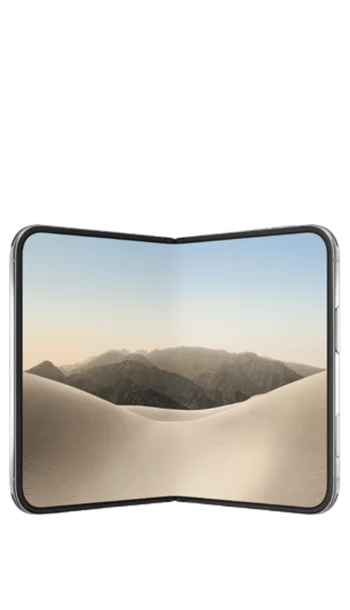
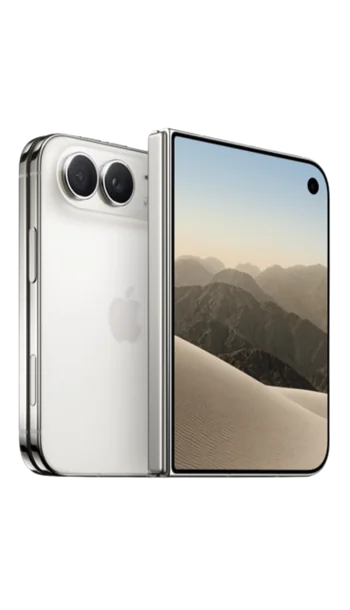
v1.1: iPhone SE (3.ª generación) e imágenes nuevas del Duo (181 de 182)
Claude-Session: https://claude.ai/code/session_01T8bAe4Z7w5hoWuiY5mK5Vw

diff --git a/assets/js/datos/predeterminadas.js b/assets/js/datos/predeterminadas.js
@@ -62,6 +62,7 @@ export const IMAGENES_PREDETERMINADAS = {
   "iphone-17e": { "Rosa pálido": "rosa-palido", "Blanco": "blanco", "Negro": "negro" },
   "iphone-air": { "Blanco nube": "blanco-nube", "Oro claro": "oro-claro", "Azul cielo": "azul-cielo", "Negro espacial": "negro-espacial" },
   "iphone-duo": { "Cielo nocturno": "cielo-nocturno", "Blanco estrella": "blanco-estrella" },
+  "iphone-se-3": { "Medianoche": "medianoche", "(PRODUCT)RED": "product-red", "Blanco estelar": "blanco-estelar" },
   "iphone-se-2": { "Negro": "negro", "(PRODUCT)RED": "product-red", "Blanco": "blanco" },
   "iphone-8": { "Oro": "oro", "Gris espacial": "gris-espacial", "(PRODUCT)RED": "product-red", "Plata": "plata" },
   "iphone-8-plus": { "(PRODUCT)RED": "product-red", "Plata": "plata", "Gris espacial": "gris-espacial", "Oro": "oro" },

diff --git a/DOCUMENTACION.md b/DOCUMENTACION.md
@@ -1564,7 +1564,7 @@ CORREOS_IDIOMA=pt BIN=… bash tests/supabase-local/levantar.sh   # con los corr
 - [ ] **Fuentes legales que no se pudieron abrir** desde el entorno: se verificaron con el buscador y, desde el 22/10/2026, con los informes de Gemini Deep Research que pasó Jared (citas revisadas por coherencia, no contra el original). Ver `legal/FUENTES.md`. Queda para el abogado: la Ley 2300 (franjas, con fuentes secundarias) y si el radicado de PQR con respuesta por WhatsApp o correo cumple con el "seguimiento" (fuente 17).
 - [ ] **Cookies del script de seguimiento externo de GHL:** no se verificaron; si se activa, agregarlo a la Política de cookies.
 - [ ] Probar en GHL los campos de consentimiento y la guía de la sección 12.3.
-- [ ] **Imágenes predeterminadas (v1.1):** Jared las pasa de a 5. Van 177 de 182 combinaciones de modelo y color. Completos: iPhone 7, 7 Plus, 8, 8 Plus, X, XS, XS Max, XR, 11, 11 Pro, 11 Pro Max, SE (2.ª generación), 12, 12 mini, 12 Pro y 12 Pro Max (cada uno con sus imágenes). 13 y 13 mini completos, cada uno con su juego. 13 Pro y 13 Pro Max completos, con las mismas imágenes en los dos. iPhone Duo, Air, 17 y 17e completos. 16, 16 Plus, 16 Pro y 16 Pro Max completos (cada par con las mismas imágenes). 16e completo. 15, 15 Plus, 15 Pro y 15 Pro Max completos (cada par con las mismas imágenes). 14 Pro y 14 Pro Max completos (las mismas imágenes). 14 y 14 Plus: todos menos Blanco estelar (las mismas imágenes). Falta el SE (3.ª generación). 17 Pro, 17 Pro Max, 18 Pro y 18 Pro Max completos (cada par con las mismas imágenes). XS y XS Max: Gris espacial (cada uno con su imagen), Oro y Plata (la misma en los dos). Plata lleva la marca de agua de otra empresa: Jared decidió dejarla así. 12 y 12 mini: cada uno con su juego de imágenes (Jared pasó uno para cada uno). La lista exacta está en `IMAGENES_PREDETERMINADAS` (`assets/js/datos/predeterminadas.js`). El proceso para cada tanda está en la sección 5 de `AI_HANDOFF.md`.
+- [ ] **Imágenes predeterminadas (v1.1):** Jared las pasa de a 5. Van 181 de 182 combinaciones de modelo y color. Completos: iPhone 7, 7 Plus, 8, 8 Plus, X, XS, XS Max, XR, 11, 11 Pro, 11 Pro Max, SE (2.ª generación), 12, 12 mini, 12 Pro y 12 Pro Max (cada uno con sus imágenes). 13 y 13 mini completos, cada uno con su juego. 13 Pro y 13 Pro Max completos, con las mismas imágenes en los dos. iPhone Duo, Air, 17 y 17e completos. 16, 16 Plus, 16 Pro y 16 Pro Max completos (cada par con las mismas imágenes). 16e completo. 15, 15 Plus, 15 Pro y 15 Pro Max completos (cada par con las mismas imágenes). 14 Pro y 14 Pro Max completos (las mismas imágenes). SE (3.ª generación) completo. 14 y 14 Plus: todos menos Blanco estelar (las mismas imágenes): es lo único que falta. 17 Pro, 17 Pro Max, 18 Pro y 18 Pro Max completos (cada par con las mismas imágenes). XS y XS Max: Gris espacial (cada uno con su imagen), Oro y Plata (la misma en los dos). Plata lleva la marca de agua de otra empresa: Jared decidió dejarla así. 12 y 12 mini: cada uno con su juego de imágenes (Jared pasó uno para cada uno). La lista exacta está en `IMAGENES_PREDETERMINADAS` (`assets/js/datos/predeterminadas.js`). El proceso para cada tanda está en la sección 5 de `AI_HANDOFF.md`.
 - [ ] Que el abogado confirme si publicar capturas de clientes (aun tapadas) necesita autorización por escrito, y si alcanza con lo que guarda el panel desde `0034` (canal, fecha y alcance de la autorización, sin datos de la persona; el mensaje o el documento lo guarda la tienda por fuera).
 - [ ] **Reseñas de antes de `0034`:** quedan "sin registrar" hasta que la tienda complete la autorización en su fila. Se siguen mostrando en el sitio mientras tanto.
 - [x] ~~Confirmar los nombres del catálogo~~: confirmados con las fichas de soporte de Apple en español (informes de Gemini, 22/10/2026). Apple anunció el 17e, 18 Pro, 18 Pro Max y Duo.
@@ -1632,6 +1632,15 @@ Otros LLM o herramientas que no ejecuten hooks deben seguir la misma regla a man
 ## 19. Registro de cambios
 
 > La entrada más nueva va arriba. Formato: **fecha · título** — pedido → qué se hizo → archivos → verificación.
+
+### 23/10/2026 · v1.1: iPhone SE (3.ª generación) y Duo nuevo (181 de 182)
+
+- **Pedido de Jared:** 5 imágenes (146 a 150); las del Duo, para reemplazar las que había.
+- **Hecho:**
+  - 146 Medianoche, 147 (PRODUCT)RED y 148 Blanco estelar: iPhone SE (3.ª generación) (botón de inicio, una cámara y su fondo). Queda completo.
+  - 149 Blanco estrella (claro) y 150 Cielo nocturno (oscuro): iPhone Duo; reemplazan la 100 y la 99.
+  - Falta solo Blanco estelar del 14 y 14 Plus.
+- **Verificación:** `node tests/documentacion.mjs` OK, todos los archivos del mapa existen, y en `tests/verificar.cjs` pasan el caso "v1.1: imágenes" y el 11 (sin marca).
 
 ### 23/10/2026 · v1.1: iPhone 14 y 14 Plus (177 de 182)
 

diff --git a/AI_HANDOFF.md b/AI_HANDOFF.md
@@ -210,7 +210,7 @@ No hay tests fallando ni configuraciones a medias. El código actual funciona y 
       5. Correr el caso "v1.1: imágenes" y el 11 (sin marca) de `verificar.cjs`.
       6. Actualizar en `DOCUMENTACION.md` la cuenta de la sección 17 ("Van N de 182") y la entrada de la 19.
       7. Commit y push.
-    - **Cargadas hasta ahora (177 de 182; 14 y 14 Plus sin Blanco estelar; 15, 15 Plus, 15 Pro, 15 Pro Max, 14 Pro y 14 Pro Max completos; Air, 17, 17e, 16, 16 Plus, 16 Pro, 16 Pro Max y 16e completos (cada par 16 con las mismas imágenes); faltan el SE 3 y el Blanco estelar del 14 y 14 Plus; 17 Pro, 17 Pro Max, 18 Pro y 18 Pro Max completos, cada par con las mismas imágenes; Duo completo; 13 y 13 mini completos, cada uno con su juego (13 mini: 79 a 83 y 85; 13: 84, 86 a 88, 92 y 93); 13 Pro y 13 Pro Max completos con las mismas imágenes (89 a 91, 94 y 95) hasta que Jared pase las del Pro Max; 12 Pro y 12 Pro Max completos, cada uno con sus imágenes (el Pro Max: 75 a 78; se distingue porque el teléfono ocupa más en el cuadro); el 12 y el 12 mini están completos y cada uno tiene su juego de imágenes (el del 12 mini: imágenes 64 a 66, 68, 69 y 70); ver el detalle en la sección 17 de `DOCUMENTACION.md`):** 12 y 12 mini con Blanco, Negro, Morado y (PRODUCT)RED, las mismas imágenes en los dos. La imagen 57 era del XS (lo confirmó Jared): reemplazó la del XS en Gris espacial; el XS Max conserva la anterior. Antes: completos el iPhone 7, 7 Plus, 8, 8 Plus, X, XR, 11, 11 Pro, 11 Pro Max y SE (2.ª generación); XS y XS Max completos: Gris espacial (cada uno el suyo), Oro y Plata (la misma en los dos). Plata lleva la marca de agua "Swappie": Jared decidió dejarla (23/10/2026). **Fuera de esa decisión, no cargar imágenes con marcas de agua de terceros sin preguntarle.** Criterio: si dos modelos se ven iguales y solo cambia el tamaño (Pro y Pro Max, por ejemplo), la misma imagen va en los dos y se le avisa a Jared.
+    - **Cargadas hasta ahora (181 de 182; SE 3 completo; Duo con las imágenes nuevas 149 y 150; 14 y 14 Plus sin Blanco estelar; 15, 15 Plus, 15 Pro, 15 Pro Max, 14 Pro y 14 Pro Max completos; Air, 17, 17e, 16, 16 Plus, 16 Pro, 16 Pro Max y 16e completos (cada par 16 con las mismas imágenes); falta solo el Blanco estelar del 14 y 14 Plus; 17 Pro, 17 Pro Max, 18 Pro y 18 Pro Max completos, cada par con las mismas imágenes; Duo completo; 13 y 13 mini completos, cada uno con su juego (13 mini: 79 a 83 y 85; 13: 84, 86 a 88, 92 y 93); 13 Pro y 13 Pro Max completos con las mismas imágenes (89 a 91, 94 y 95) hasta que Jared pase las del Pro Max; 12 Pro y 12 Pro Max completos, cada uno con sus imágenes (el Pro Max: 75 a 78; se distingue porque el teléfono ocupa más en el cuadro); el 12 y el 12 mini están completos y cada uno tiene su juego de imágenes (el del 12 mini: imágenes 64 a 66, 68, 69 y 70); ver el detalle en la sección 17 de `DOCUMENTACION.md`):** 12 y 12 mini con Blanco, Negro, Morado y (PRODUCT)RED, las mismas imágenes en los dos. La imagen 57 era del XS (lo confirmó Jared): reemplazó la del XS en Gris espacial; el XS Max conserva la anterior. Antes: completos el iPhone 7, 7 Plus, 8, 8 Plus, X, XR, 11, 11 Pro, 11 Pro Max y SE (2.ª generación); XS y XS Max completos: Gris espacial (cada uno el suyo), Oro y Plata (la misma en los dos). Plata lleva la marca de agua "Swappie": Jared decidió dejarla (23/10/2026). **Fuera de esa decisión, no cargar imágenes con marcas de agua de terceros sin preguntarle.** Criterio: si dos modelos se ven iguales y solo cambia el tamaño (Pro y Pro Max, por ejemplo), la misma imagen va en los dos y se le avisa a Jared.
     - **Mecanismo** (ya hecho; no cambia por tanda):
       - En `equipos.fotos` va la ruta `predeterminadas/<slug>/<archivo>.webp`.
       - `urlArchivo()` (demo y Supabase) la sirve desde el sitio y `borrarArchivos()` no la borra.
